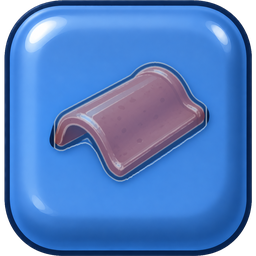
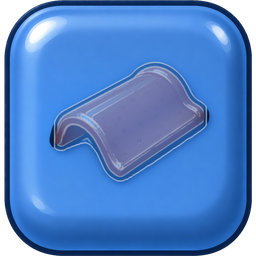
Emblems at 30%, darker mine, hint stars centred
Claude-Session: https://claude.ai/code/session_01352siDM1CUZ1yFaoQqG9LA

Changed region(s): [[0.1875, 0.2188, 0.8125, 0.7188]]

diff --git a/tools/art/ghost_emblems.py b/tools/art/ghost_emblems.py
@@ -1,5 +1,5 @@
 # Turn block emblems into faint light outlines (originals in art_source/blocks).
-# Usage: python3 ghost_emblems.py art_source/blocks <out folder> [line alpha 0.6] [emblem opacity 0.5], then cut_blocks.py <out folder> unity/Assets/_Game/Art/Resources/Board
+# Usage: python3 ghost_emblems.py art_source/blocks <out folder> [line alpha 0.6] [emblem opacity 0.3], then cut_blocks.py <out folder> unity/Assets/_Game/Art/Resources/Board
 import sys, os, numpy as np
 from PIL import Image
 from scipy import ndimage as ndi
@@ -20,7 +20,7 @@ def emblem_mask(a):
 src, out = sys.argv[1], sys.argv[2]
 line_alpha = float(sys.argv[3]) if len(sys.argv) > 3 else 0.6
 # how much of the original emblem stays visible under the lines (0 = none)
-emblem_opacity = float(sys.argv[4]) if len(sys.argv) > 4 else 0.5
+emblem_opacity = float(sys.argv[4]) if len(sys.argv) > 4 else 0.3
 for c in ['blue','brown','gray','green','purple']:
     a=np.array(Image.open(f'{src}/block_{c}.png').convert('RGB')).astype(np.float32)
     m=emblem_mask(a)

diff --git a/unity/Assets/_Game/Scripts/View/Palette.cs b/unity/Assets/_Game/Scripts/View/Palette.cs
@@ -19,8 +19,8 @@ namespace Game.View
 
         public static readonly Color32 Background = new Color32(0xf3, 0xea, 0xd8, 0xff);
         /// <summary>The mine is dark so the blocks stand out: dark brown tray on an even darker screen.</summary>
-        public static readonly Color32 BoardBack = new Color32(0x5a, 0x45, 0x32, 0xff);
-        public static readonly Color32 MineBackground = new Color32(0x3a, 0x2c, 0x20, 0xff);
+        public static readonly Color32 BoardBack = new Color32(0x4a, 0x38, 0x29, 0xff);
+        public static readonly Color32 MineBackground = new Color32(0x2e, 0x23, 0x1a, 0xff);
         public static readonly Color32 MineText = new Color32(0xf0, 0xe6, 0xd6, 0xff);
 
         /// <summary>Colour of a part tier 1..7 in lists (index 0 unused).</summary>

diff --git a/unity/Assets/_Game/Scripts/View/CellView.cs b/unity/Assets/_Game/Scripts/View/CellView.cs
@@ -44,8 +44,7 @@ namespace Game.View
         public void SetHint(int stars)
         {
             if (_kind != CellKind.Block) return;
-            // Low on the block, so the emblem stays visible.
-            ShowStars(stars, -0.3f);
+            ShowStars(stars, 0f);
         }
 
         private void ShowStars(int n, float y)
